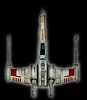
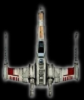
Добавил Сокол Тысячелетия в возможные корабли игрока

Changed region(s): [[0.0, 0.03, 0.9762, 0.99]]

diff --git a/game.py b/game.py
@@ -48,26 +48,27 @@ class Camera:
 class Scale(pygame.sprite.Sprite):
     """Класс шкалы здоровья игрока"""
 
-    def __init__(self, x, y):
+    def __init__(self, x, y, falcon_mod):
         super().__init__(all_sprites, service_group)
         self.image = images['scale']
         self.rect = self.image.get_rect()
         self.rect.x = x
         self.rect.y = y
+        self.h_max = 100 if not falcon_mod else 150
         self.scale_width = 94
         self.scale_height = 13
         self.color = None
 
     def draw(self, h):
         """Функция рисует шкалу, меняя её цвет с снижением здоровья игрока"""
-        if h >= 70:
+        if h >= 0.7 * self.h_max:
             self.color = pygame.Color('green')
-        elif 30 <= h < 70:
+        elif 0.3 * self.h_max <= h < self.h_max * 0.7:
             self.color = pygame.Color('yellow')
         else:
             self.color = pygame.Color('red')
         pygame.draw.rect(screen, self.color,
-                         (self.rect.x, self.rect.y + 12, self.scale_width * (h / 100), self.scale_height - 3))
+                         (self.rect.x, self.rect.y + 12, self.scale_width * (h / self.h_max), self.scale_height - 3))
 
     def update(self):
         if player is not None:
@@ -361,6 +362,36 @@ class Player(pygame.sprite.Sprite):
         player_group.remove(self)
         all_sprites.remove(self)
         player = None
+
+
+class Falcon(Player):
+    """Класс второго персонажа"""
+
+    def __init__(self, x, y, group, coordinates_not_for_scenes=True, append_to_all_sprites=True, scene_speed=False):
+        super().__init__(x, y, group, coordinates_not_for_scenes, append_to_all_sprites, scene_speed)
+        self.image = images['falcon']
+        self.rect = self.image.get_rect()
+        if coordinates_not_for_scenes:  # Для удобства в сценах используются обычные координаты, а не по карте уровня
+            self.rect.x = x * COLUMN_COUNT  # Координаты
+            self.rect.y = y * GAME_SPEED
+        else:
+            self.rect.x = x
+            self.rect.y = y
+        self.health = 150
+
+    def shot_e(self):  # Выстрел справа, с клавиши E
+        if self.ammunition > 0:
+            FalconWeapon(1)
+            s = sounds['player fire']
+            s.play()
+        self.ammunition -= 1
+
+    def shot_q(self):  # Выстрел слева, с клавиши Q
+        if self.ammunition > 0:
+            FalconWeapon(0)
+            s = sounds['player fire']
+            s.play()
+        self.ammunition -= 1
 
 
 class Enemy(Meteor):
@@ -812,7 +843,7 @@ class PlayerWeapon(pygame.sprite.Sprite):
         else:
             self.rect.x = player.rect.right - 9
         self.rect.y = player.rect.y
-        self.damage = 30
+        self.damage = 20
 
     def move(self):
         """Функция для движения вперёд"""
@@ -851,6 +882,18 @@ class PlayerWeapon(pygame.sprite.Sprite):
         """Убираем объект с поля"""
         weapons_group.remove(self)
         all_sprites.remove(self)
+
+
+class FalconWeapon(PlayerWeapon):
+    """Класс выстрелов для второго вида игрока"""
+
+    def __init__(self, n1):
+        super().__init__(n1)
+        if n1 == 0:  # n1 - показатель с какой стороны нужно создавать выстрел
+            self.rect.x = player.rect.x + 15
+        else:
+            self.rect.x = player.rect.right - 20
+        self.damage = 30
 
 
 class EnemyWeapon(PlayerWeapon):
@@ -942,8 +985,8 @@ class Target:
 class Fon2(Fon):
     """Фон, который двигается"""
 
-    def __init__(self, x, y, fon_gr, n1, b=False):
-        super().__init__(x, y, fon_gr, n1, b)
+    def __init__(self, x, y, fon_gr, n1, battle=False):
+        super().__init__(x, y, fon_gr, n1, battle)
 
     def update(self,
                *args):  # В сценах нужно двигать фон быстрее обычного, поэтому в параметры к update в них добавляем True
@@ -962,7 +1005,7 @@ class Fon2(Fon):
             self.rect.y += 0.5
 
 
-def view_lesson():
+def view_lesson(falcon_mode):
     """Функция для воплощения на экран карты уровня"""
     player1 = None
     for i1 in range(len(level_map)):
@@ -974,21 +1017,29 @@ def view_lesson():
             elif level_map[i1][j] == 'n':
                 Enemy(j, i1, enemies_group)
             elif level_map[i1][j] == 'P':
-                player1 = Player(j, i1, player_group)
+                if falcon_mode:
+                    player1 = Falcon(j, i1, player_group)
+                else:
+                    player1 = Player(j, i1, player_group)
             elif level_map[i1][j] == 'b':
                 Boss(j, i1)
     return player1
 
 
-def first_scene(scene_fon_number, scene_fon_group):
+def first_scene(scene_fon_number, scene_fon_group, falcon_mode):
     """Функция для стартовой сцены"""
     scene_player_group = get_sprites_group()  # Создаём группу для игрока
     scene_cam = Camera()  # Создаём камеру для сцены
     screen.fill((0, 0, 0))
     # Создаём макет игрока, который будет лететь в это сцене.
-    scene_player = Player(4 * COLUMN_COUNT, -100, scene_player_group, coordinates_not_for_scenes=False,
-                          append_to_all_sprites=False,
-                          scene_speed=True)
+    if falcon_mode:
+        scene_player = Falcon(4 * COLUMN_COUNT, -100, scene_player_group, coordinates_not_for_scenes=False,
+                              append_to_all_sprites=False,
+                              scene_speed=True)
+    else:
+        scene_player = Player(4 * COLUMN_COUNT, -100, scene_player_group, coordinates_not_for_scenes=False,
+                              append_to_all_sprites=False,
+                              scene_speed=True)
     Fon2(-200, -1200, scene_fon_group, scene_fon_number, True)  # Фон, который будет двигаться
     tar = Target(225, 600)  # И класс для фокусирования камеры
     while True:
@@ -1055,10 +1106,31 @@ def find_vect(vect1, vect2):
     return vect3
 
 
+def choice_mode_screen():
+    """Функция для выбора корабля игрока"""
+    screen.fill((0, 0, 0))
+    maket_group, choice_fon_group = get_sprites_group(), get_sprites_group()
+    Fon(-300, -200, choice_fon_group, 2)
+    pl1 = Player((WIDTH - 100) // 2, 100, maket_group, coordinates_not_for_scenes=False, append_to_all_sprites=False)
+    pl2 = Falcon((WIDTH - 100) // 2, 400, maket_group, coordinates_not_for_scenes=False, append_to_all_sprites=False)
+    while True:
+        for choice_event in pygame.event.get():
+            if choice_event.type == pygame.QUIT:
+                terminate()
+            elif choice_event.type == pygame.MOUSEBUTTONDOWN and pl1.rect.collidepoint(choice_event.pos):
+                return False
+            elif choice_event.type == pygame.MOUSEBUTTONDOWN and pl2.rect.collidepoint(choice_event.pos):
+                return True
+        choice_fon_group.draw(screen)
+        maket_group.draw(screen)
+        pygame.display.flip()
+        clock.tick(FPS)
+
+
 # Запускаем игру, используя функции из модуля levels
 # Функция start_screen выводит главное меню. Затем она вызывает функцию display_lesson и возвращает её.
 # Функция display_lesson позволяет игроку выбрать уровень и возвращает сгенерированную карту данного уровня и его номер
-level_map, lesson_number = start_screen()
+level_map, lesson_number, falcon_mode = start_screen(choice_mode_screen)
 pygame.mouse.set_visible(False)
 while True:  # Запускаем первый игровой цикл, повторяющий создание уровней и обрабатывающий конец прохождения уровней
     # Генерируем все нужные для игры группы спрайтов функцией из модуля const
@@ -1066,7 +1138,7 @@ while True:  # Запускаем первый игровой цикл, повт
     player_lose_coordinates = []
     fon_group = get_sprites_group()
     fon_number = random.choice((1, 3))  # Выбираем фон для игры
-    first_scene(fon_number, fon_group)
+    first_scene(fon_number, fon_group, falcon_mode)
     all_sprites, osk_group, weapons_group, meteors_group, enemies_group, player_group, boss_group, service_group, boss, fire_group = restart_sprites_for_game()
     # Создаём список для удобного рисования спрайтов
     sp_sprites = [fon_group, osk_group, weapons_group, meteors_group, enemies_group, player_group, boss_group,
@@ -1077,9 +1149,10 @@ while True:  # Запускаем первый игровой цикл, повт
     timer_on()  # Включаем таймеры  на события игры
     screen.fill((0, 0, 0))
     camera = Camera()
-    sk = Scale(0, 0)
+    sk = Scale(0, 0, falcon_mode)
     am = AmCount(WIDTH - 50, 4)
-    player = view_lesson()  # Создаём спрайты по карте уровня с помощью view_lesson, которая возвращает объект игрока
+    player = view_lesson(
+        falcon_mode)  # Создаём спрайты по карте уровня с помощью view_lesson, которая возвращает объект игрока
     for i in boss_group:  # Создаём переменную boss с объектом босса, если он есть, если нет, то она остаётся None
         boss = i
     while True:  # Запускаем игровой цикл самого уровня
@@ -1144,7 +1217,7 @@ while True:  # Запускаем первый игровой цикл, повт
             # Если игрок уничтожен, то пользователь проиграл, поэтому выходим из цикла и пишем о поражении
             lose_scene([meteors_group, boss_group, osk_group, enemies_group, fire_group], player_lose_coordinates,
                        fon_group)
-            level_map, lesson_number = end_screen(False, lesson_number)
+            level_map, lesson_number, falcon_mode = end_screen(False, lesson_number, falcon_mode, choice_mode_screen)
             break
         k = 0  # Считаем количество оставшихся вражеских кораблей и астероидов с помощью переменной k
         for i in meteors_group:
@@ -1153,7 +1226,7 @@ while True:  # Запускаем первый игровой цикл, повт
             k += 1
         if k == 0 and boss is None:  # Если никого больше не осталось, то выходим из цикла и пишем о победе
             won_scene(fon_group, player, player_group, osk_group)
-            level_map, lesson_number = end_screen(True, lesson_number)
+            level_map, lesson_number, falcon_mode = end_screen(True, lesson_number, falcon_mode, choice_mode_screen)
             break
         if player is not None:
             camera.update(player)  # Настраиваем камеру на игрока
@@ -1168,6 +1241,6 @@ while True:  # Запускаем первый игровой цикл, повт
         pygame.display.flip()
         clock.tick(FPS)
     if exit_via_pause == 'les':
-        level_map, lesson_number = display_lessons()
+        level_map, lesson_number, falcon_mode = display_lessons(falcon_mode, choice_mode_screen)
     elif exit_via_pause == 'main':
-        level_map, lesson_number = start_screen()
+        level_map, lesson_number, falcon_mode = start_screen(choice_mode_screen)

diff --git a/levels.py b/levels.py
@@ -13,12 +13,13 @@ def terminate():
     sys.exit()
 
 
-def start_screen():
+def start_screen(function_for_choice_mode_screen):
     """Выводит главное меню"""
     global music
     pygame.mouse.set_visible(True)
     sp = []
-    intro_text = ["PySpace", 'Играть']
+    falcon_mode = False  # Выбор игрока
+    intro_text = ["PySpace", 'Играть', 'Выбор корабля']
     if music == 0:  # Запускаем музыку, если она ещё не играет
         pygame.mixer_music.load(sounds['main_theme'])
         pygame.mixer_music.play(-1)
@@ -28,24 +29,38 @@ def start_screen():
     Fon(-400, -200, fon_group, 1)
     fon_group.draw(screen)
     font = pygame.font.Font(None, 50)
-    text_coord = [160, -170]
-    for line in intro_text:  # Выводим текст главного меню
-        string_rendered = font.render(line, 1, pygame.Color('white'))
+    text_coord = [(140, 60), (150, 290), (80, 350)]
+    for line in range(len(intro_text)):  # Загрузка текста
+        string_rendered = font.render(intro_text[line], 1, pygame.Color('white'))
         intro_rect = string_rendered.get_rect()
-        text_coord[1] += 230
-        intro_rect.top = text_coord[1]
-        text_coord[0] -= 20
-        intro_rect.x = text_coord[0]
-        text_coord[0] += intro_rect.height
+        intro_rect.top = text_coord[line][1]
+        intro_rect.x = text_coord[line][0]
         sp.append(intro_rect)
         screen.blit(string_rendered, intro_rect)
     play_button = sp[1]
+    choice_button = sp[2]
     while True:
         for event in pygame.event.get():  # Ждём щелчка для показа уровней
             if event.type == pygame.QUIT:
                 terminate()
             elif event.type == pygame.MOUSEBUTTONDOWN and play_button.collidepoint(event.pos):
-                return display_lessons()
+                return display_lessons(falcon_mode, function_for_choice_mode_screen)
+            elif event.type == pygame.MOUSEBUTTONDOWN and choice_button.collidepoint(event.pos):
+                falcon_mode = function_for_choice_mode_screen()
+                screen.fill((0, 0, 0))
+                Fon(-400, -200, fon_group, 1)
+                fon_group.draw(screen)
+                font = pygame.font.Font(None, 50)
+                text_coord = [(140, 60), (140, 290), (80, 350)]
+                for line in range(len(intro_text)):  # Загрузка текста
+                    string_rendered = font.render(intro_text[line], 1, pygame.Color('white'))
+                    intro_rect = string_rendered.get_rect()
+                    intro_rect.top = text_coord[line][1]
+                    intro_rect.x = text_coord[line][0]
+                    sp.append(intro_rect)
+                    screen.blit(string_rendered, intro_rect)
+                play_button = sp[1]
+                choice_button = sp[2]
         pygame.display.flip()
         clock.tick(FPS)
 
@@ -53,10 +68,11 @@ def start_screen():
 class Fon(pygame.sprite.Sprite):
     """ Класс фонов для игры"""
 
-    def __init__(self, x, y, fon_gr, n, b=False):
-        """Для инициализации нужны координаты, номер фона (также как для уровней) n, указание фон для босса или нет b"""
+    def __init__(self, x, y, fon_gr, n, battle=False):
+        """Для инициализации нужны координаты, номер фона (также как для уровней) n,
+         указание фон для битвы или нет batle"""
         super().__init__(all_sprites, fon_gr)
-        if not b:
+        if not battle:
             self.image = images[f'fon{n}']
         else:
             self.image = images[f'fonb{n}']
@@ -110,16 +126,16 @@ class Lesson(pygame.sprite.Sprite):
             pygame.mixer_music.load(sounds['game_theme'])
         pygame.mixer_music.play(-1)
 
-    def update(self, *args):  # Смотрим на действия пользователя
-        if self.rect.collidepoint(args[0].pos):
+    def update(self, event, falcon_mode):  # Смотрим на действия пользователя
+        if self.rect.collidepoint(event.pos):
             self.choice_music()
             return generate_level(
-                f'level{self.lesson_number}.txt'), self.lesson_number  # Возвращаем загруженный уровень
+                f'level{self.lesson_number}.txt'), self.lesson_number, falcon_mode  # Возвращаем загруженный уровень
         else:
             return False
 
 
-def display_lessons(lesson_number=None):
+def display_lessons(falcon_mode, function_for_choice_mode_screen, lesson_number=None):
     """Показываем уровни и запускаем их.
     lesson_number нужно для того чтобы запускать определённый уровень без выбора пользователя.
     Когда пользователь сам заходит, то lesson_number=None"""
@@ -142,11 +158,12 @@ def display_lessons(lesson_number=None):
                     terminate()
                 if event.type == pygame.MOUSEBUTTONDOWN:  # Нажатие на уровень
                     for i in lessons_group:
-                        if i.update(event):
-                            return i.update(event)
+                        answer = i.update(event, falcon_mode)
+                        if answer:
+                            return answer
                     for i in my_group:  # Нажатие на стрелку
                         if i.update(event):
-                            return start_screen()
+                            return start_screen(function_for_choice_mode_screen)
             all_sprites.draw(screen)
             pygame.display.flip()
             clock.tick(FPS)
@@ -156,7 +173,7 @@ def display_lessons(lesson_number=None):
                 i.choice_music()
                 pygame.mixer_music.set_volume(0.6)
                 music = 0
-                return generate_level(f'level{lesson_number}.txt'), lesson_number
+                return generate_level(f'level{lesson_number}.txt'), lesson_number, falcon_mode
 
 
 def generate_level(filename):  # Собираем уровень
@@ -282,7 +299,7 @@ def pause_screen(lesson_number):
         clock.tick(FPS)
 
 
-def end_screen(won, lesson_number):
+def end_screen(won, lesson_number, falcon_mode, function_for_choice_mode_screen):
     """Функция для обработки конца игры
     won - показатель победы"""
     global music
@@ -332,14 +349,14 @@ def end_screen(won, lesson_number):
                 terminate()
             elif event.type == pygame.MOUSEBUTTONDOWN:  # Нажатие на кнопки
                 if button_for_lessons.collidepoint(event.pos):
-                    return display_lessons()
+                    return display_lessons(falcon_mode, function_for_choice_mode_screen)
                 if button_for_main.collidepoint(event.pos):
-                    return start_screen()
+                    return start_screen(function_for_choice_mode_screen)
                 if button_for_next_lesson.collidepoint(event.pos):
                     # Используем второй случай display_lessons с переходом на другой уровень без выбора пользователя
                     if not won or lesson_number == 3:
-                        return display_lessons(lesson_number)
+                        return display_lessons(falcon_mode, function_for_choice_mode_screen, lesson_number)
                     else:
-                        return display_lessons(lesson_number + 1)
+                        return display_lessons(falcon_mode, function_for_choice_mode_screen, lesson_number + 1)
         pygame.display.flip()
         clock.tick(FPS)

diff --git a/data.py b/data.py
@@ -38,7 +38,8 @@ images = {'player': load_image('player.png', -1), 'meteor0': load_image('meteor.
           'fon3': load_image('fon3.jpg'), 'strelki': load_image('strelki.png', -1),
           'sterki1': load_image('strelki1.png', -1), 'fonb1': load_image('fonb.jpg'), 'fonb2': load_image('fonb2.jpg'),
           'fonb3': load_image('fonb3.jpg'), 'boom': load_image('vsr.gif', -1), 'fire': load_image('fire.png', -1),
-          'player_boom': load_image('player_boom.png', -1), 'boss_boom': load_image('boss_boom.png', -1)}
+          'player_boom': load_image('player_boom.png', -1), 'boss_boom': load_image('boss_boom.png', -1),
+          'falcon': load_image('falcon.png', -1)}
 
 sounds = {'main_theme': sound_name("John Williams_-_Ben Kenobi's Death _ Tie Fighter Attack.mp3"),
           'game_theme': sound_name("Order 66.mp3"), 'won_theme': sound_name('Cantina band.mp3'),
